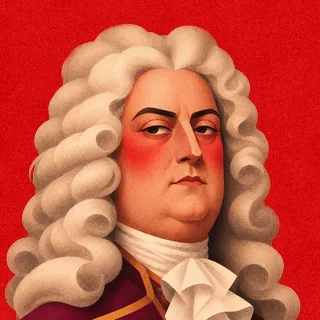
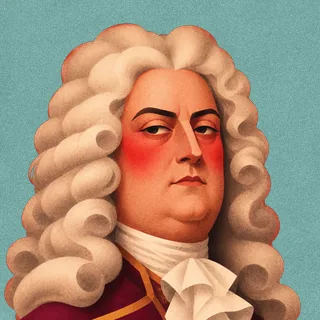
Composer portraits on distinct pale backdrops (a few soft reds) instead of the originals' similar deep reds
Claude-Session: https://claude.ai/code/session_01J9nR1BmP9TjDnKqecdbpyd

diff --git a/scripts/art/composers.py b/scripts/art/composers.py
@@ -9,7 +9,9 @@ named "Johannes Brahms" holds Verdi and "Frame 9" holds Brahms: the images are p
 import numpy as np, os, json, sys
 FIG, OUT = sys.argv[1], sys.argv[2]
 from PIL import Image, ImageFilter
-COLS = json.loads('{"handel": "#d30d0f", "mozart": "#921112", "vivaldi": "#790001", "faure": "#4a1b3e", "puccini": "#7f1012", "tchaikovsky": "#4d2d45", "bizet": "#615934", "rstrauss": "#112e2a", "wagner": "#595126", "rossini": "#565330", "brahms": "#660413", "beethoven": "#d10808", "haydn": "#056538", "verdi": "#033c26", "bach": "#9a0409"}')
+# backdrops: pale, distinct tints (each composer his own; a few soft reds), a quiet complement to the costume; the originals' own
+# backdrops were deep reds that looked alike side by side
+COLS = json.loads('{"handel": "#79aaa4", "mozart": "#9db7d6", "vivaldi": "#a3b996", "faure": "#b2a3d4", "puccini": "#d99a7c", "tchaikovsky": "#c7a3c0", "bizet": "#dcc47e", "rstrauss": "#93c6ae", "wagner": "#c07d78", "rossini": "#a9cfd2", "brahms": "#9fa7d9", "beethoven": "#b7c4cf", "haydn": "#e5aeb6", "verdi": "#e7c9a1", "bach": "#d48a78"}')
 CUT = {"handel":"38e4289f22ea","mozart":"ecf959a526d6","vivaldi":"27d33c8fb60d","faure":"ffdd2db6ba62","puccini":"d0d65df90166","tchaikovsky":"a218febde4e9","bizet":"24f075fbd806","rstrauss":"08d635be10fb","wagner":"b0c402cd1a7a","rossini":"c87a9944d0d0","brahms":"9e744d05b498","beethoven":"fd51184d3a32","haydn":"97549252bd2a","verdi":"ce265d70f0b1","bach":"317f7027ec20"}
 full = {h[:12]: h for h in os.listdir(os.path.join(FIG, 'images'))}
 def grain(size, seed, strength=7.0):

diff --git a/src/standalone/images/README.md b/src/standalone/images/README.md
@@ -27,8 +27,9 @@ Every picture is optimised before it goes in here. Never add an original export.
 
 - **Files:** `composer-<id>-portrait.webp` 720 × 964 (quality 80) and `composer-<id>-face.webp` 320 × 320 (quality
   82), for bach, beethoven, bizet, brahms, faure, handel, haydn, mozart, puccini, rossini, rstrauss, tchaikovsky,
-  verdi, vivaldi and wagner. Built like the character art: the cut-out over the colour of the portrait's original
-  backdrop, with the same paper grain.
+  verdi, vivaldi and wagner. Built like the character art: the cut-out over a backdrop with the same paper grain. Each
+  composer has his own pale tint (a few soft reds), set in `COLS` in `composers.py`; the originals' deep red
+  backdrops looked alike side by side.
 - **Portraits (and Bizet's face):** from the user's `composers.fig` (unzipped):
   `python3 scripts/art/composers.py <unzipped composers.fig> src/standalone/images`. The images are picked by their
   hash in the script, not by frame name: in that file the frame named "Johannes Brahms" holds Verdi and "Frame 9"
